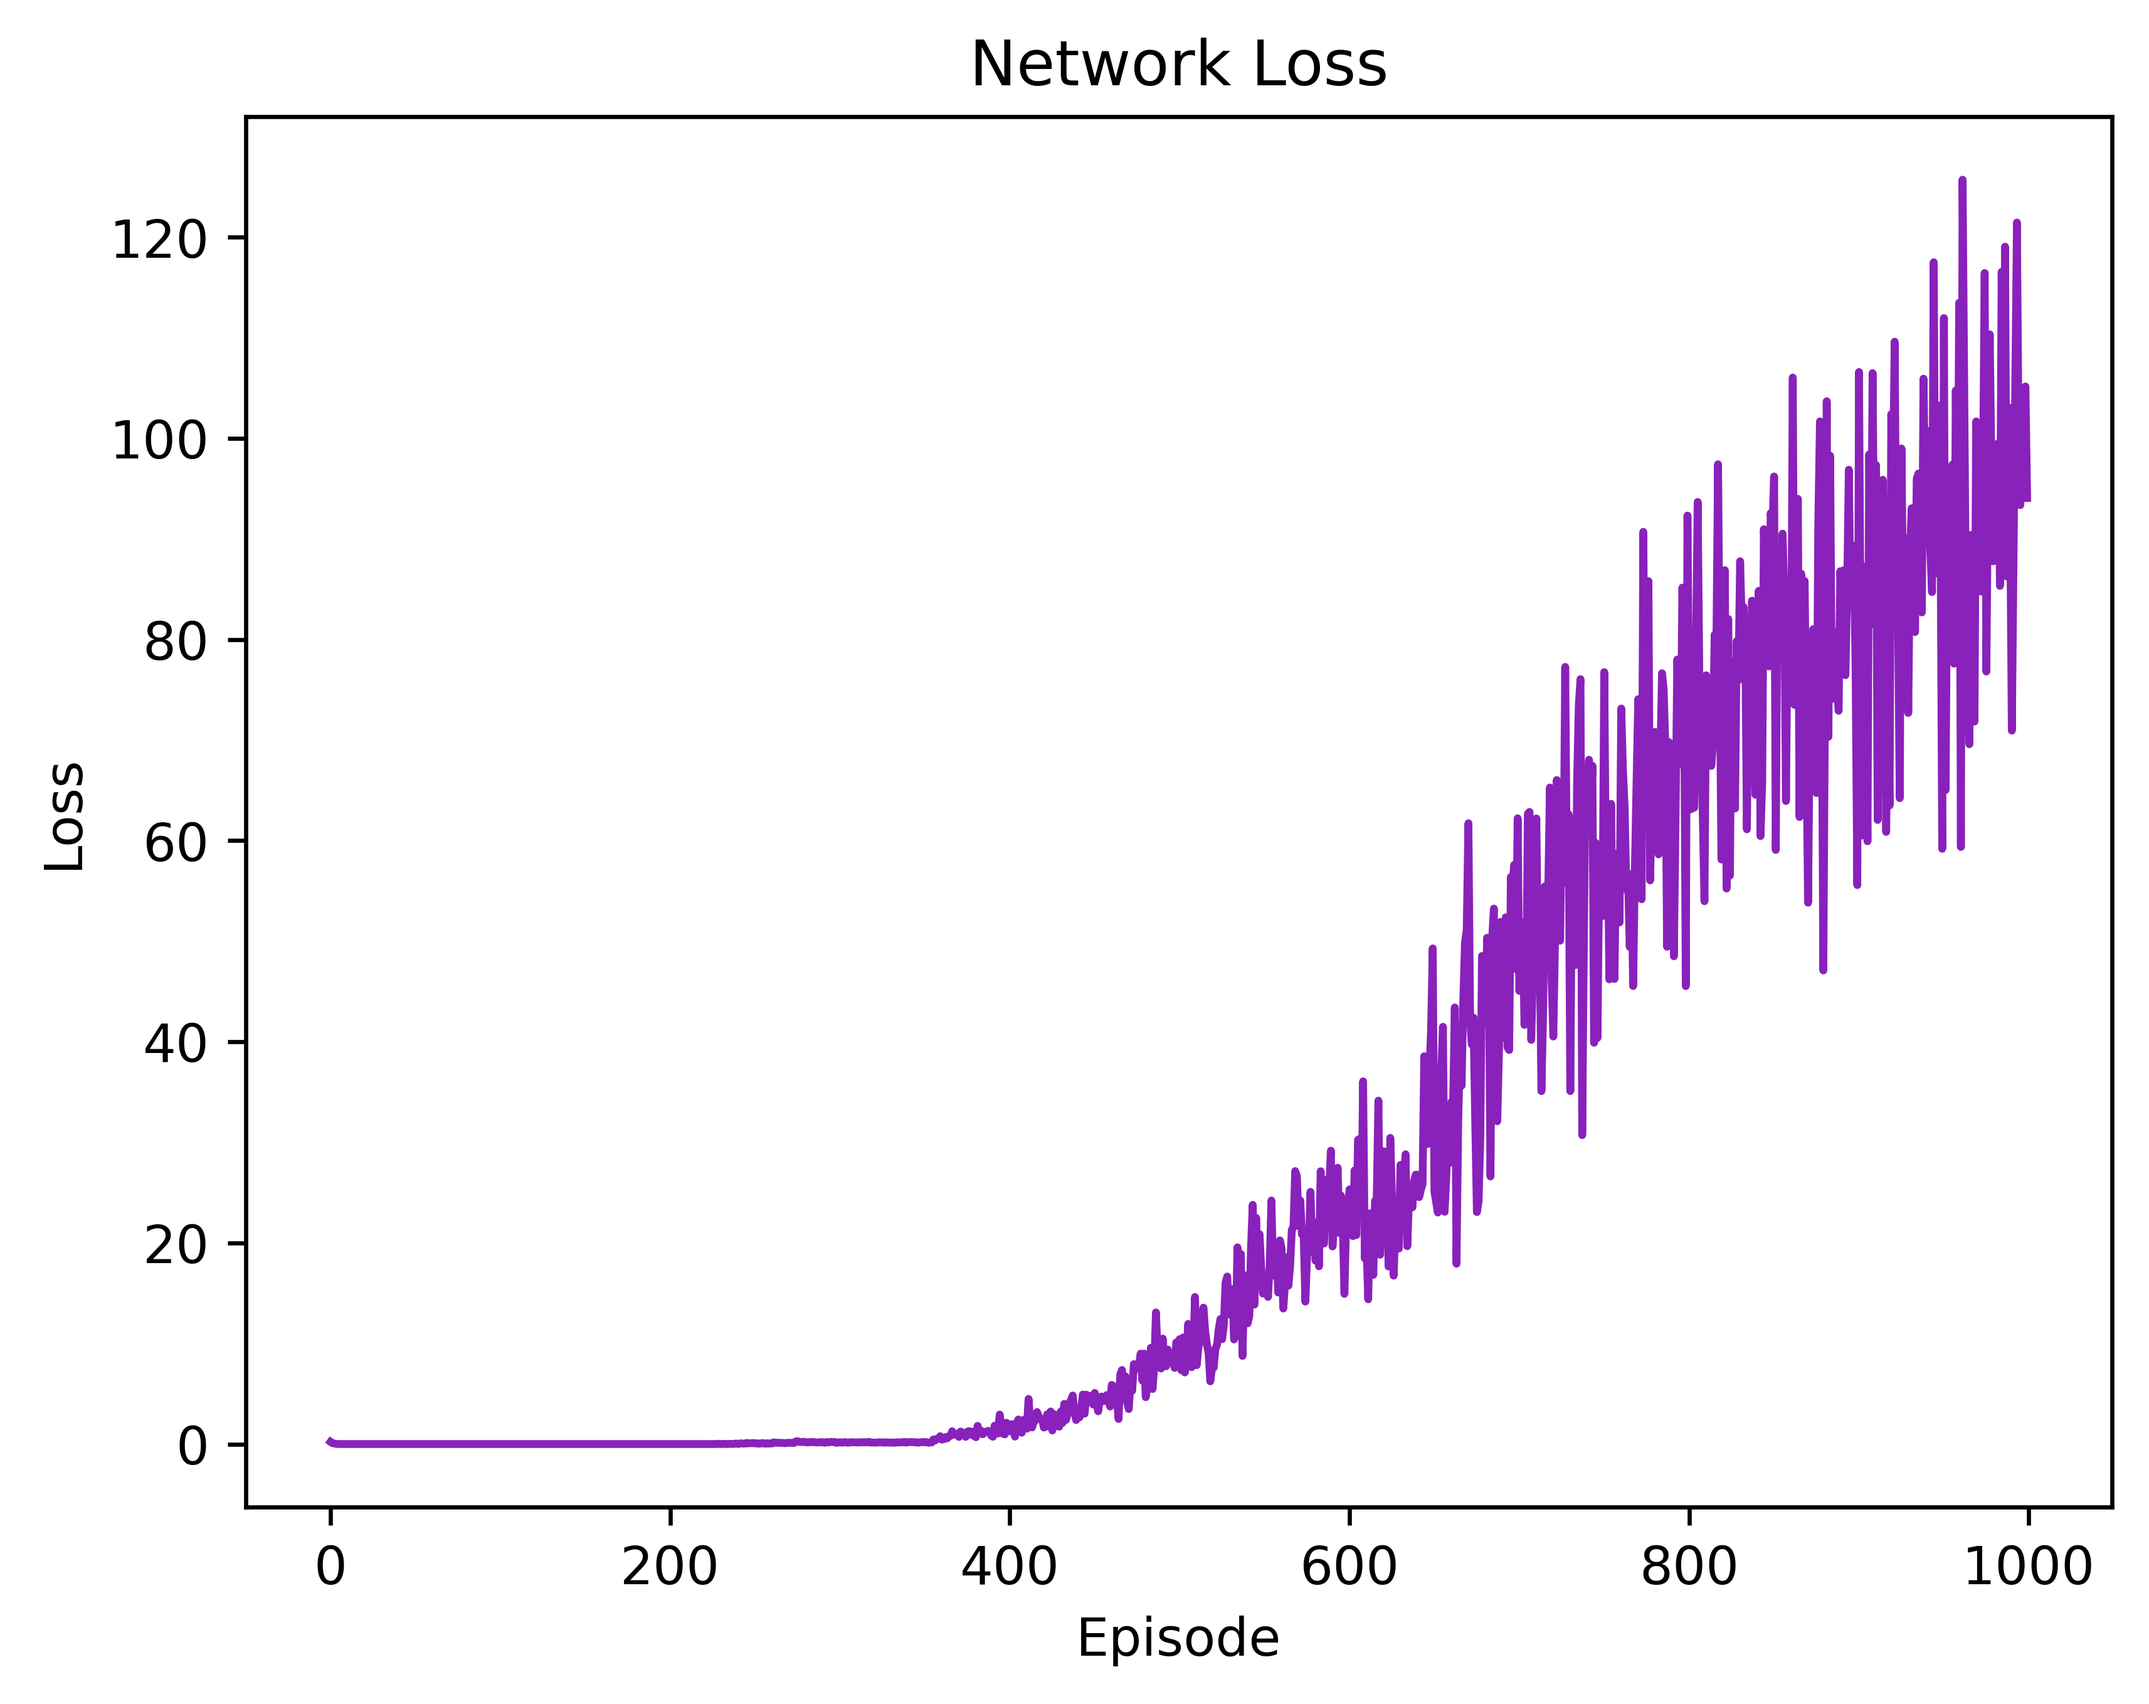
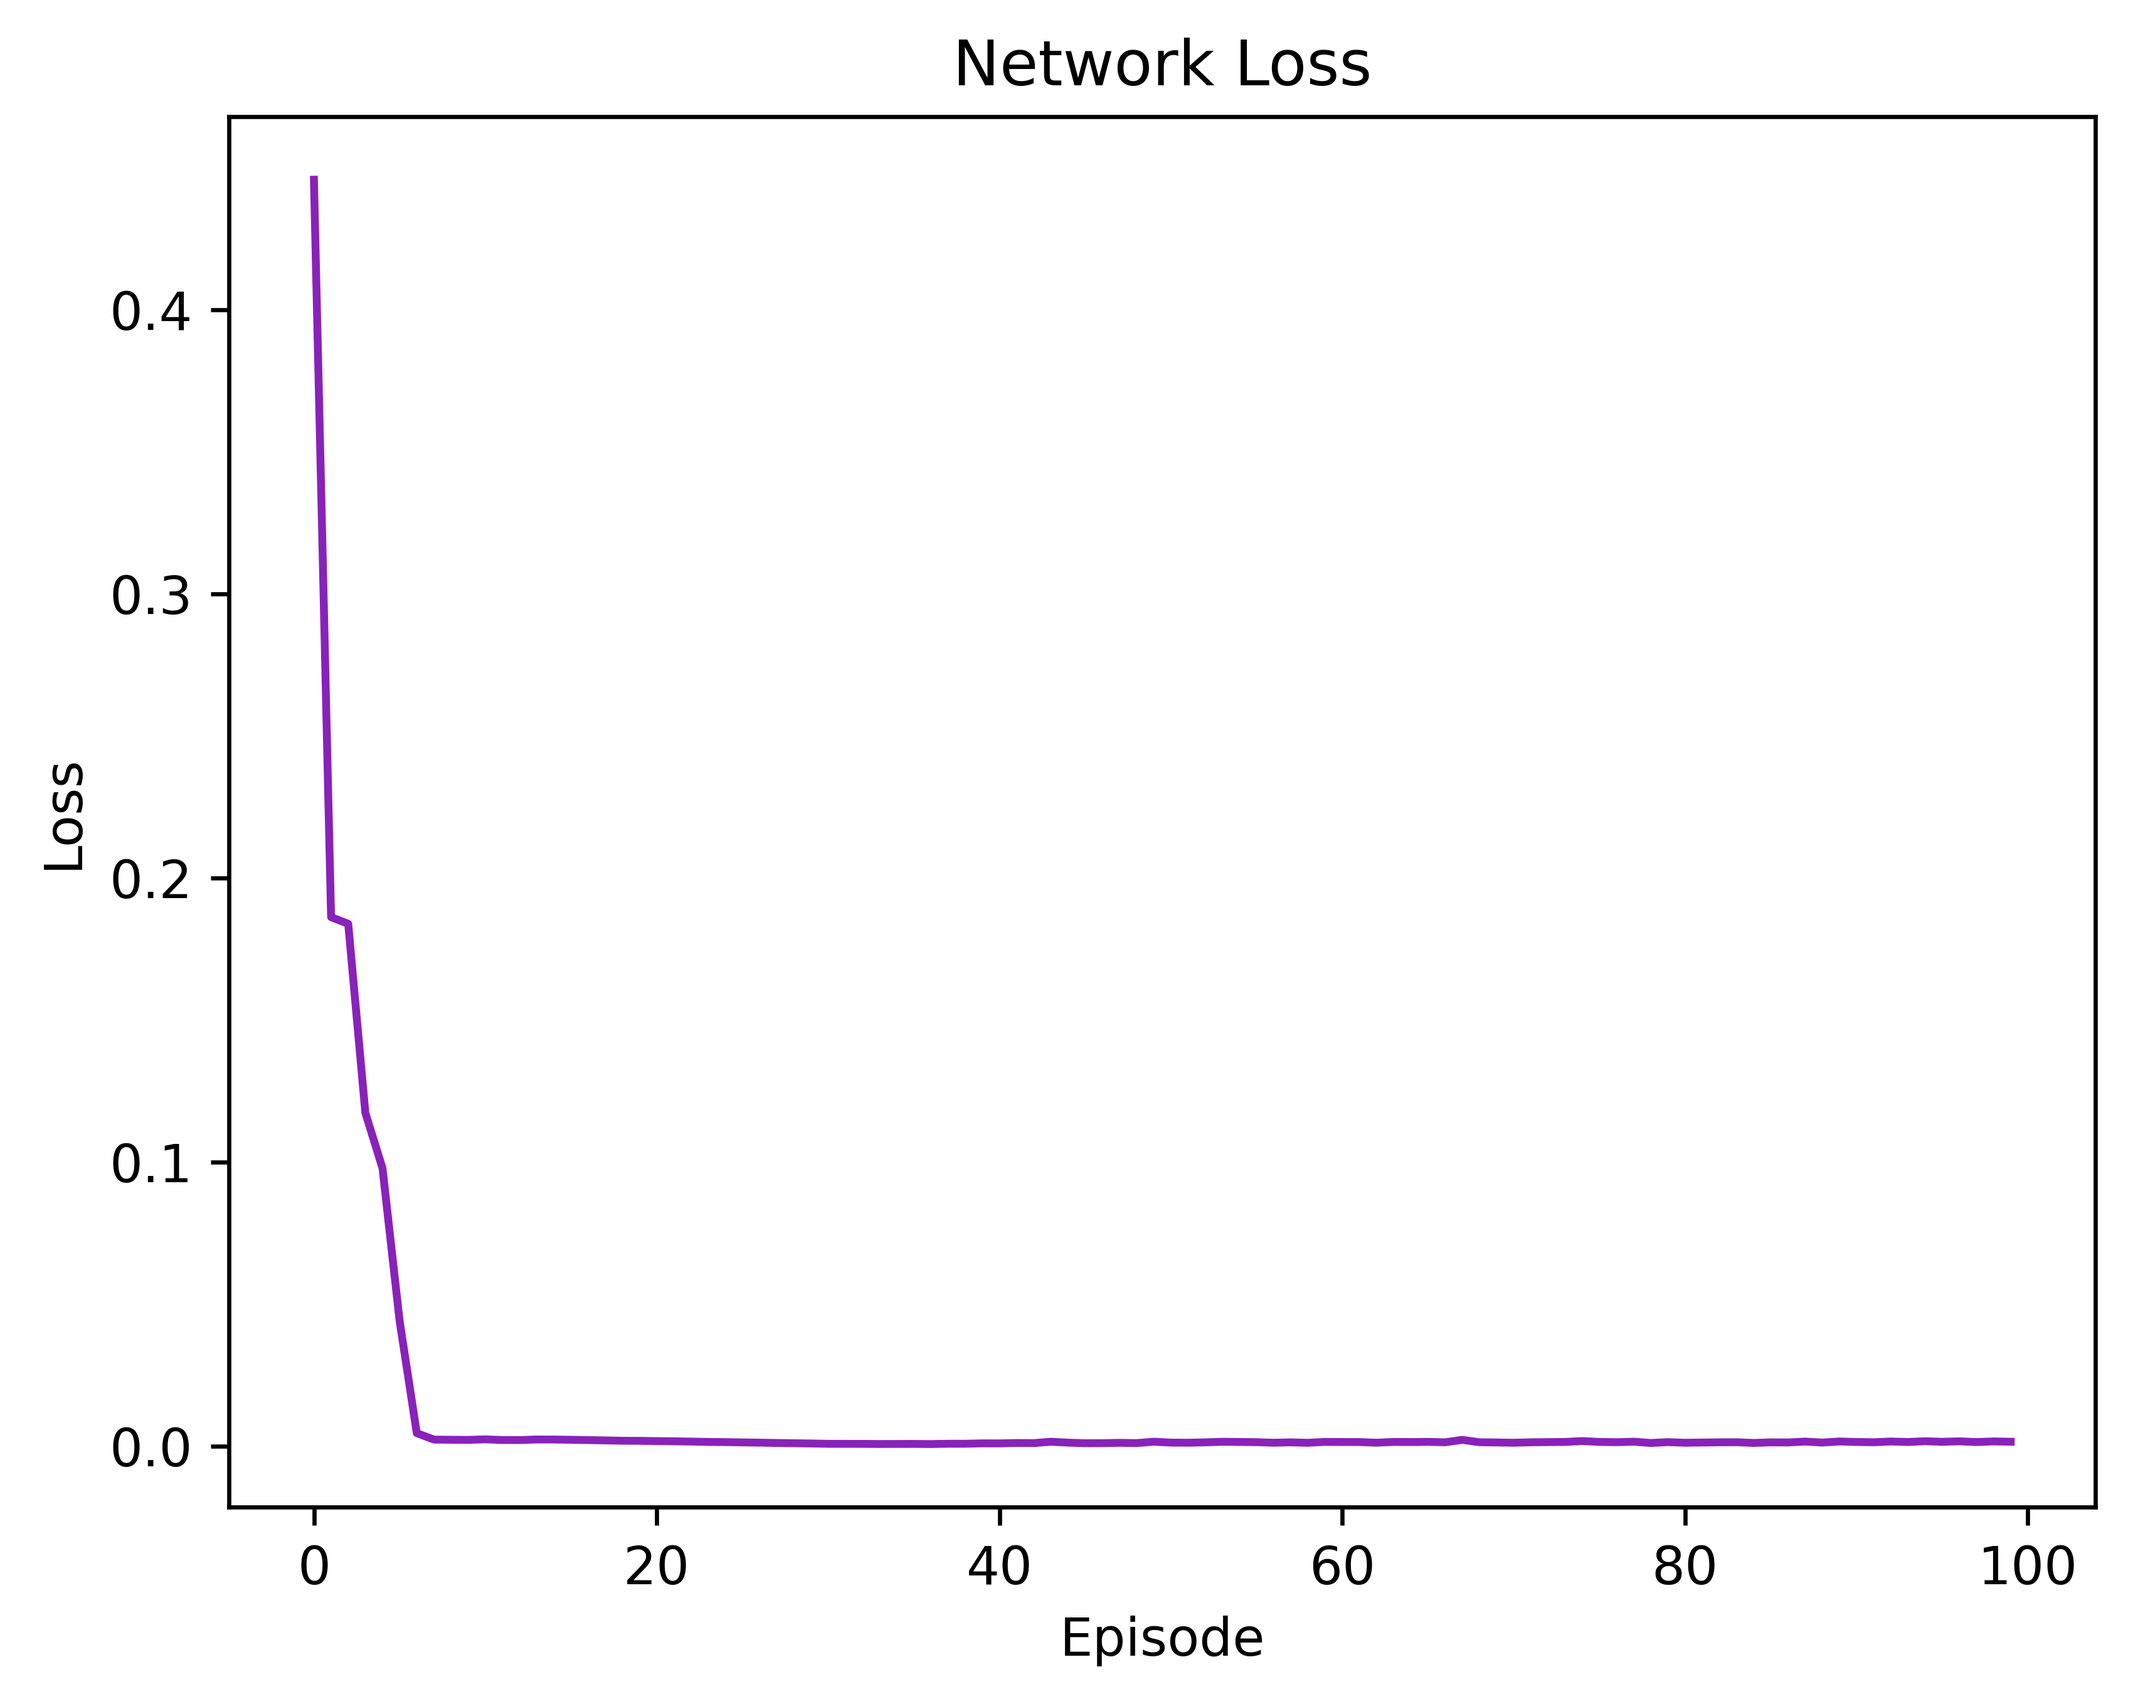
new files

diff --git a/DQN_MountainCar_PyTorch/main.py b/DQN_MountainCar_PyTorch/main.py
@@ -1,0 +1,10 @@
+# Classic Control
+
+# Why Reinforcement Learning is the machine learning paradigm of choice for this task? (2 Marks)
+# Cause it good at Generalisation with working with random environments....
+
+import torch
+import gymnasium
+
+
+device = torch.device("cuda" if torch.cuda.is_available() else "cpu")
